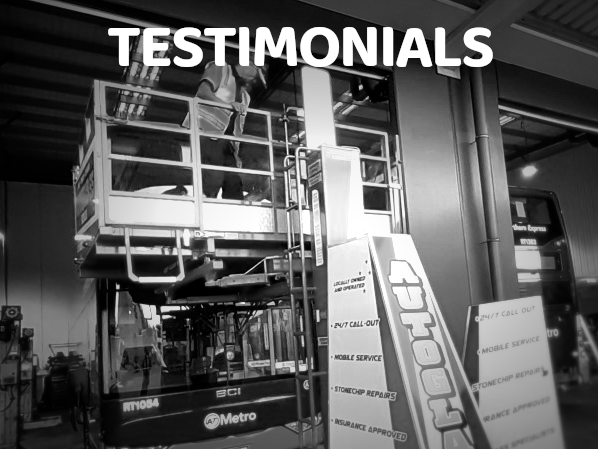
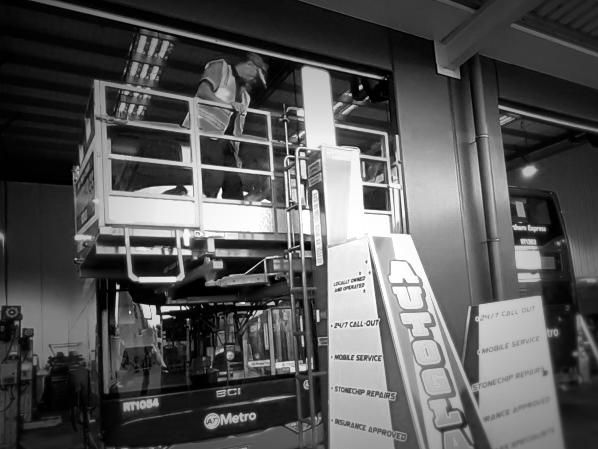
same day replacements image. UI Tidy ups

Changed region(s): [[0.1806, 0.0624, 0.8428, 0.1559]]

diff --git a/public/index.html b/public/index.html
@@ -143,7 +143,7 @@
                                     <p class="font-baloo text-primary text-center"><strong>Take a minute to fill in this form and we will give you a call with your best solution</strong></p>
                                 </div>
                             </div>
-                            <form class="text-white" action="mailto:samuel.j.cribb@gmail.com" method="post" enctype="text/plain">
+                            <form class="text-white" action="contactform.php" method="POST">
                                 <div class="form-row">
                                     <label for="name">Contact Name *</label>
                                     <input class="form-control w-100" type="text" required name='name'>
@@ -197,7 +197,7 @@
                         <div class="col-lg-6 col-sm-12">
                             <h1 class="font-baloo text-red fw-bold">Jobs Big Or Small</h1>
                             <p class="font-baloo text-secondary"><strong><i>From chip repairs to full bus glass refits. Our team of specialists are equipped for the job.</i></strong></p>
-                            <p>• Panel repairs and paint <br>• Trim, upholstery &amp; carpet<br>• Refronts <br>• Glass roof installation<br>• Screen conversions <br>• Air Conditioning installation<br>• Star rating repairs <br>• Fleet tidy ups<br>• Warranty repairs <br>• Seat &amp; seatbelt installation<br>• 18 metre spray booth <br>• Chassis Plant
+                            <p><span class="fa fa-check-circle"></span> Panel repairs and paint <br><span class="fa fa-check-circle"></span> Trim, upholstery &amp; carpet<br><span class="fa fa-check-circle"></span> Refronts <br><span class="fa fa-check-circle"></span> Glass roof installation<br><span class="fa fa-check-circle"></span> Screen conversions <br><span class="fa fa-check-circle"></span> Air Conditioning installation<br><span class="fa fa-check-circle"></span> Star rating repairs <br><span class="fa fa-check-circle"></span> Fleet tidy ups<br><span class="fa fa-check-circle"></span> Warranty repairs <br><span class="fa fa-check-circle"></span> Seat &amp; seatbelt installation<br><span class="fa fa-check-circle"></span> 18 metre spray booth <br><span class="fa fa-check-circle"></span> Chassis Plant
                             </p>
                         </div>
                     </div>
@@ -298,6 +298,8 @@
                             </div> -->
                             
                             <div class="slideshow-container">
+
+                                <h2 class="font-baloo fw-semi-bold text-white slides-header">TESTIMONIALS</h2>
 
                                 <div class="mySlides">
                                   <q>I love you the more in that I believe you had liked me for my own sake and for nothing else</q>
@@ -408,7 +410,7 @@
                         <div class="col-lg-4 info-card col-md-12">
                             <div class="row info-card-image">
                                 <div class="col">
-                                    <img class="w-100" src="images/twenty-four-hour.JPEG" alt="New Zealand Heavy Automotive Glass Specialists">
+                                    <img class="w-100" src="images/same-day-replacements.JPEG" alt="New Zealand Heavy Automotive Glass Specialists">
                                 </div>
                             </div>
                             <div class="row info-card-caption">

diff --git a/public/css/site.css b/public/css/site.css
@@ -92,6 +92,10 @@ li{
     margin: 0 auto;
 }
 
+.fa-check-circle{
+    color: rgba(224, 18, 18, 0.877);
+}
+
 * {box-sizing: border-box}
 
 /* Slideshow container */
@@ -99,10 +103,17 @@ li{
   position: relative;
 }
 
+.slides-header{
+    padding-top: 50px;
+    padding-left: 80px
+}
 /* Slides */
 .mySlides {
   display: none;
-  padding: 80px;
+  padding-bottom: 40px;
+  padding-left: 80px;
+  padding-right: 80px;
+  padding-top: 0px;
   text-align: left;
 }
 
@@ -146,7 +157,7 @@ li{
   height: 15px;
   width: 15px;
   margin: 0 2px;
-  background-color: rgba(200,200,200,0.6);
+  background-color: rgba(197, 125, 125, 0.6);
   border-radius: 50%;
   display: inline-block;
   transition: background-color 0.6s ease;
@@ -154,7 +165,7 @@ li{
 
 /* Add a background color to the active dot/circle */
 .active, .dot:hover {
-  background-color: rgba(100,100,100,0.6);;
+  background-color: rgba(105, 68, 68, 0.6);;
 }
 
 /* Add an italic font style to all quotes */

diff --git a/public/contactform.php b/public/contactform.php
@@ -1,0 +1,16 @@
+<?php
+
+    error_log("WORKING");
+    if($_POST["name"]){
+        $message =  "Name: " . $_POST['name'] . PHP_EOL . 
+        "Company Name: " . $_POST['company_name'] . PHP_EOL . 
+        "Phone: " . $_POST['phone'] . PHP_EOL . 
+        "Rego: " . $_POST['rego'] . PHP_EOL . 
+        "Repair: " . $_POST['repair'] . PHP_EOL . 
+        "Location: " . $_POST['location'] . PHP_EOL;
+    
+        mail('samuel.j.cribb@gmail.com', 'NEW WEBSITE QUERY',
+            $message, 'From: ' . $_POST['email']);
+        echo("Email sent. Thank you");
+    }
+?>
